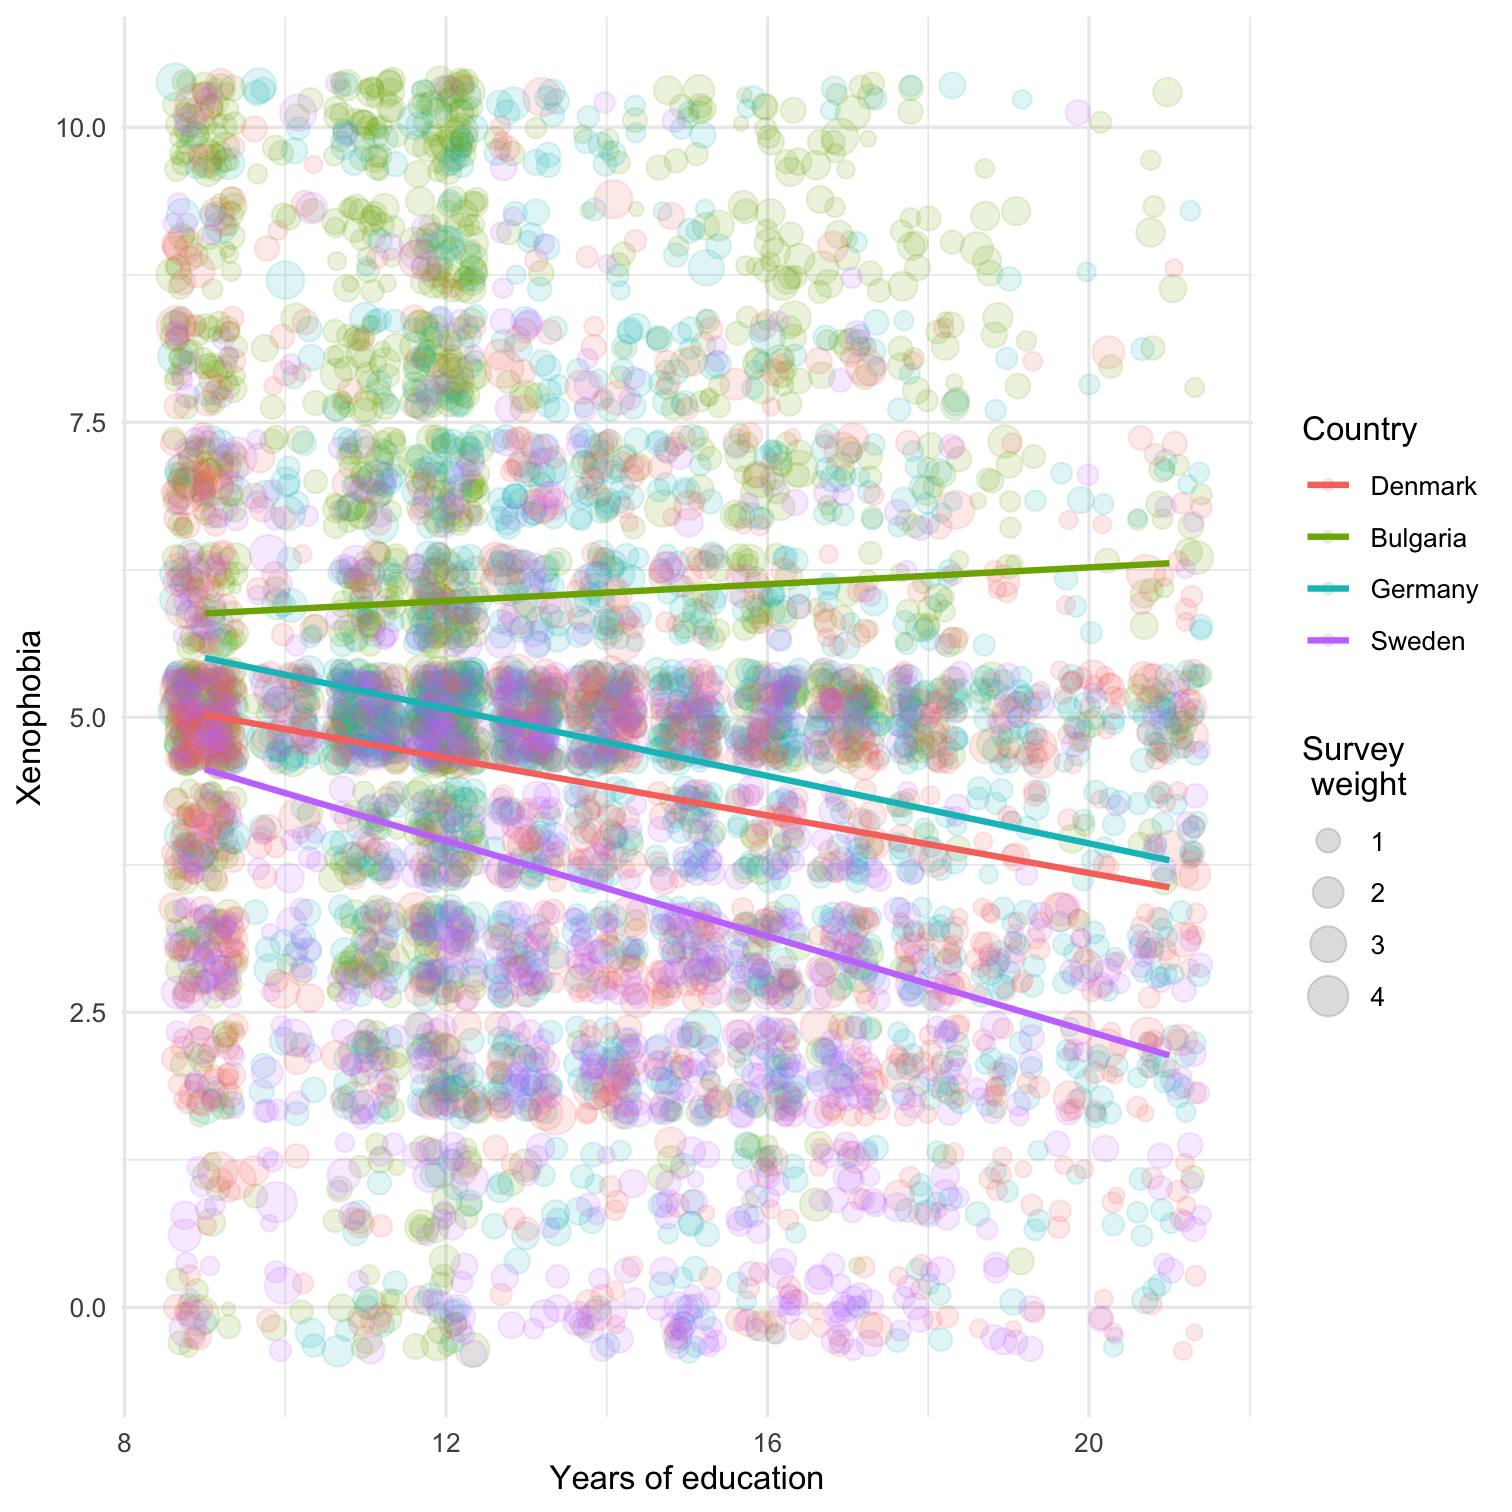
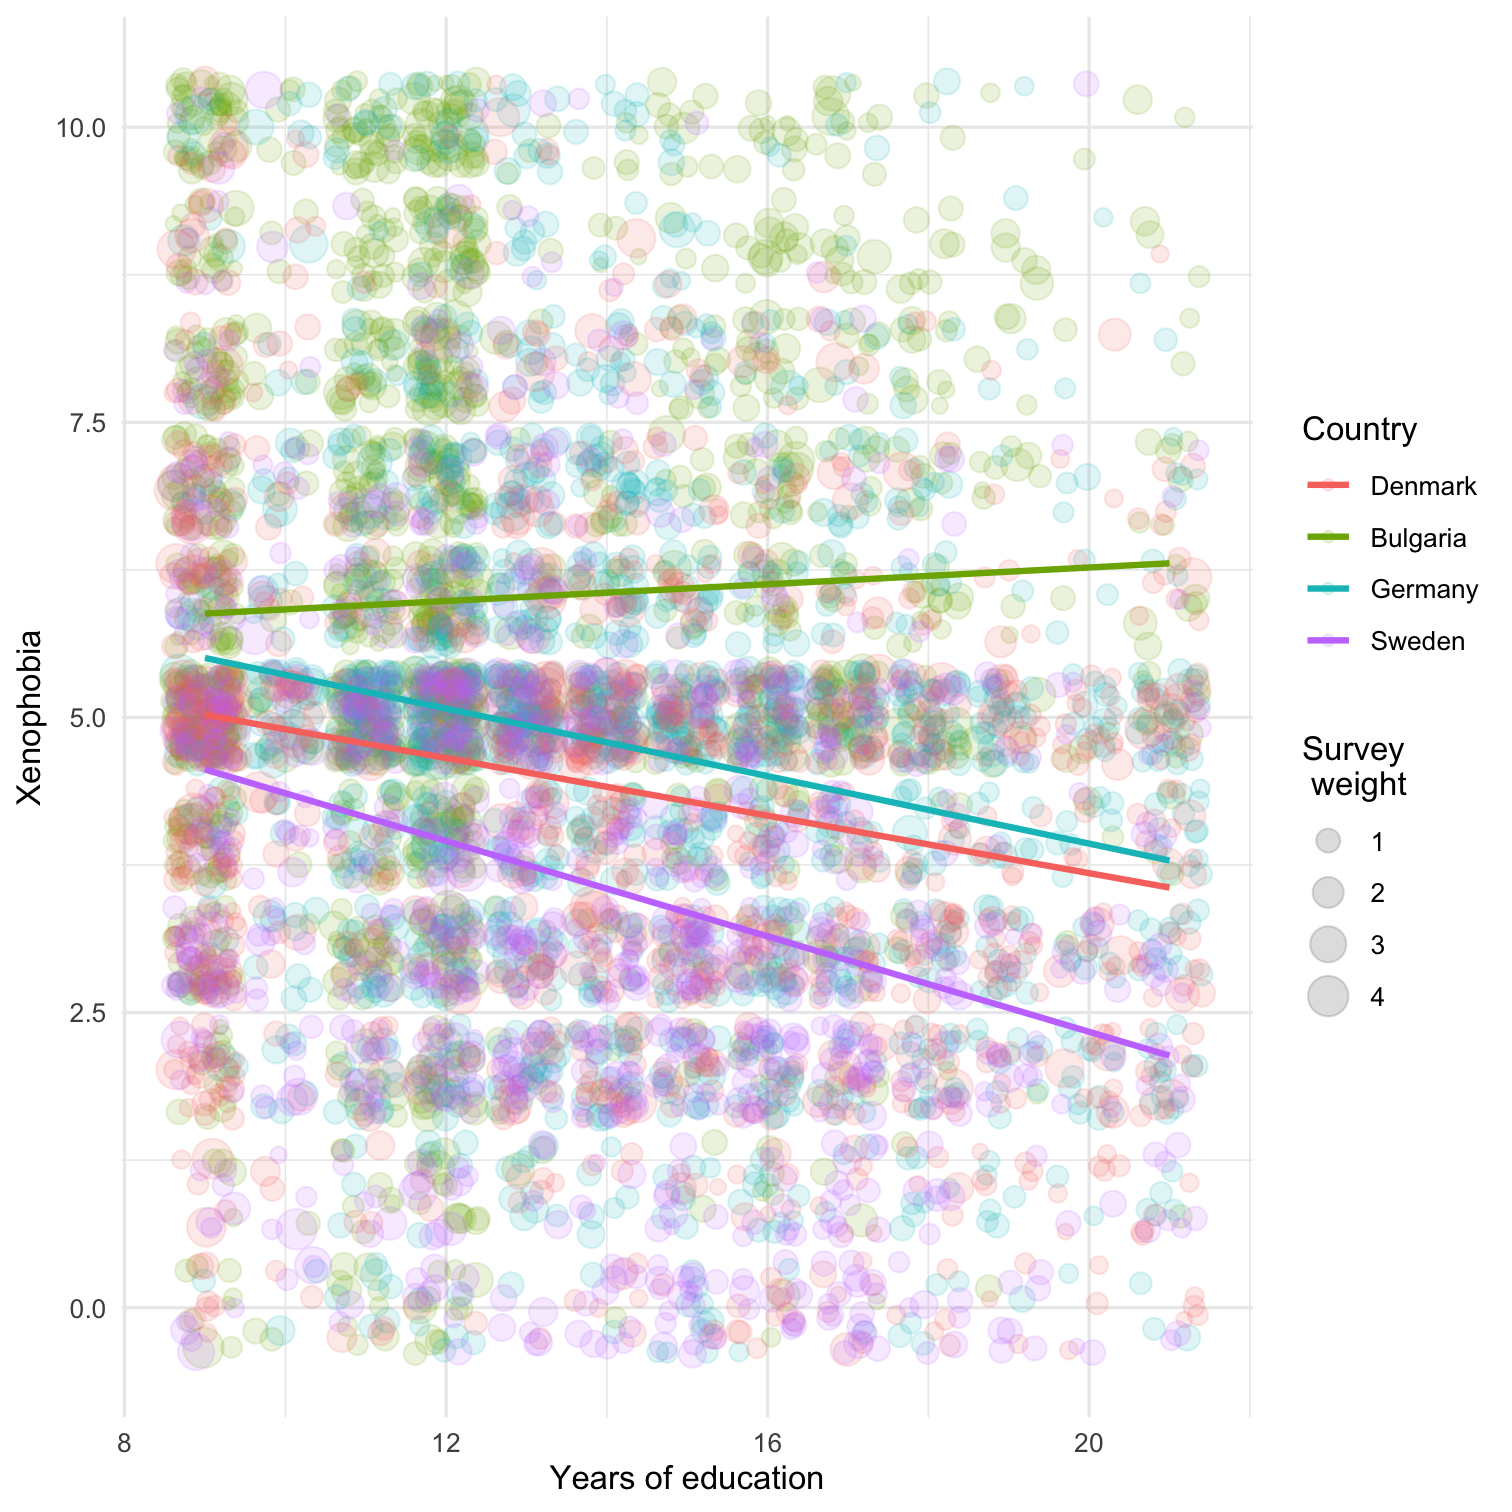
Update on final slides.

diff --git a/static/7-OLS-II/7-OLS-II.html b/static/7-OLS-II/7-OLS-II.html
@@ -205,11 +205,11 @@ screenreg(ols4, include.ci = FALSE)
 
 .left-column[.content-box-green[
 
-1. How do we interpret the estimates correctly?
+1. How do we interpret the estimate `eduyrs:cntrySweden` correctly?
 
-2. Why is `\(\beta_{\text{eduyrs}}\)` smaller than in model 3?
+2. Why is `\(\beta_{\text{eduyrs}}\)` more negative than in model 3?
 
-3. Why do Bulgarians suddenly seem to have *lower* levels of imwbcntphobia, whereas before they had higher ones?
+3. Why do Bulgarians suddenly seem to have *lower* levels of xenophobia, whereas before they had higher ones?
 ]]
 
 ---
@@ -271,7 +271,7 @@ ggplot(data = ESS,
 
 ```r
 ols4 &lt;- lm_robust(formula = imwbcnt ~ par_edu + gndr +
-                    I(scale(eduyrs))*cntry,
+                    I(scale(eduyrs))*cntry, ##&lt;
                   data = ESS, weights = pspwght)
 screenreg(ols4, include.ci = FALSE) 
 # 
